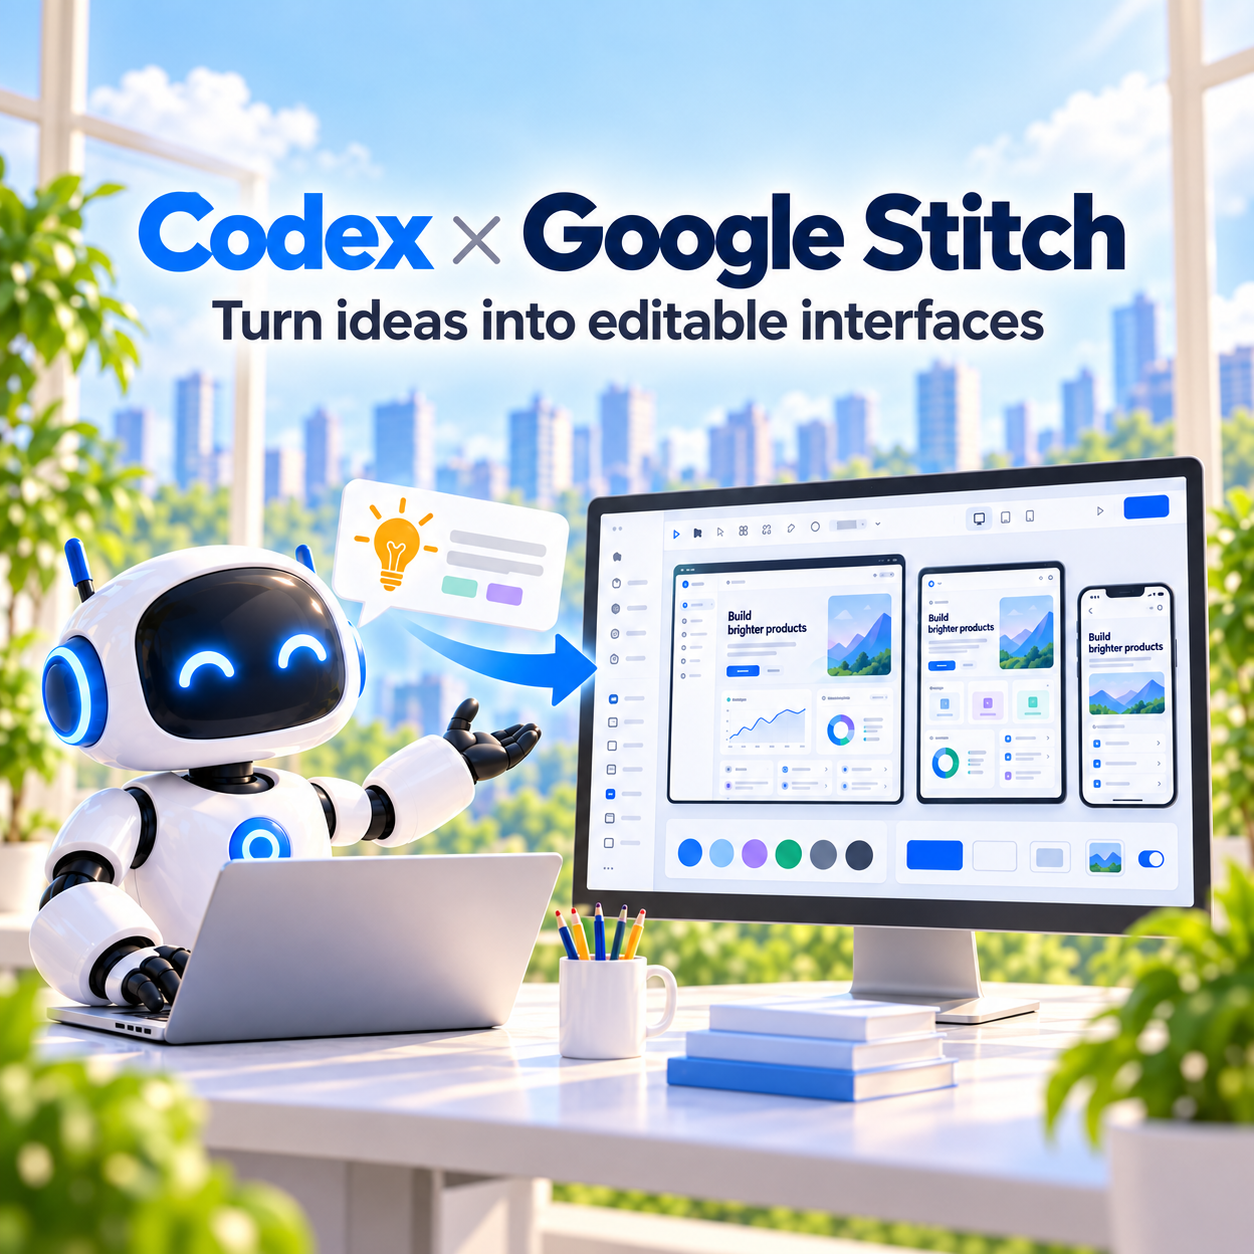
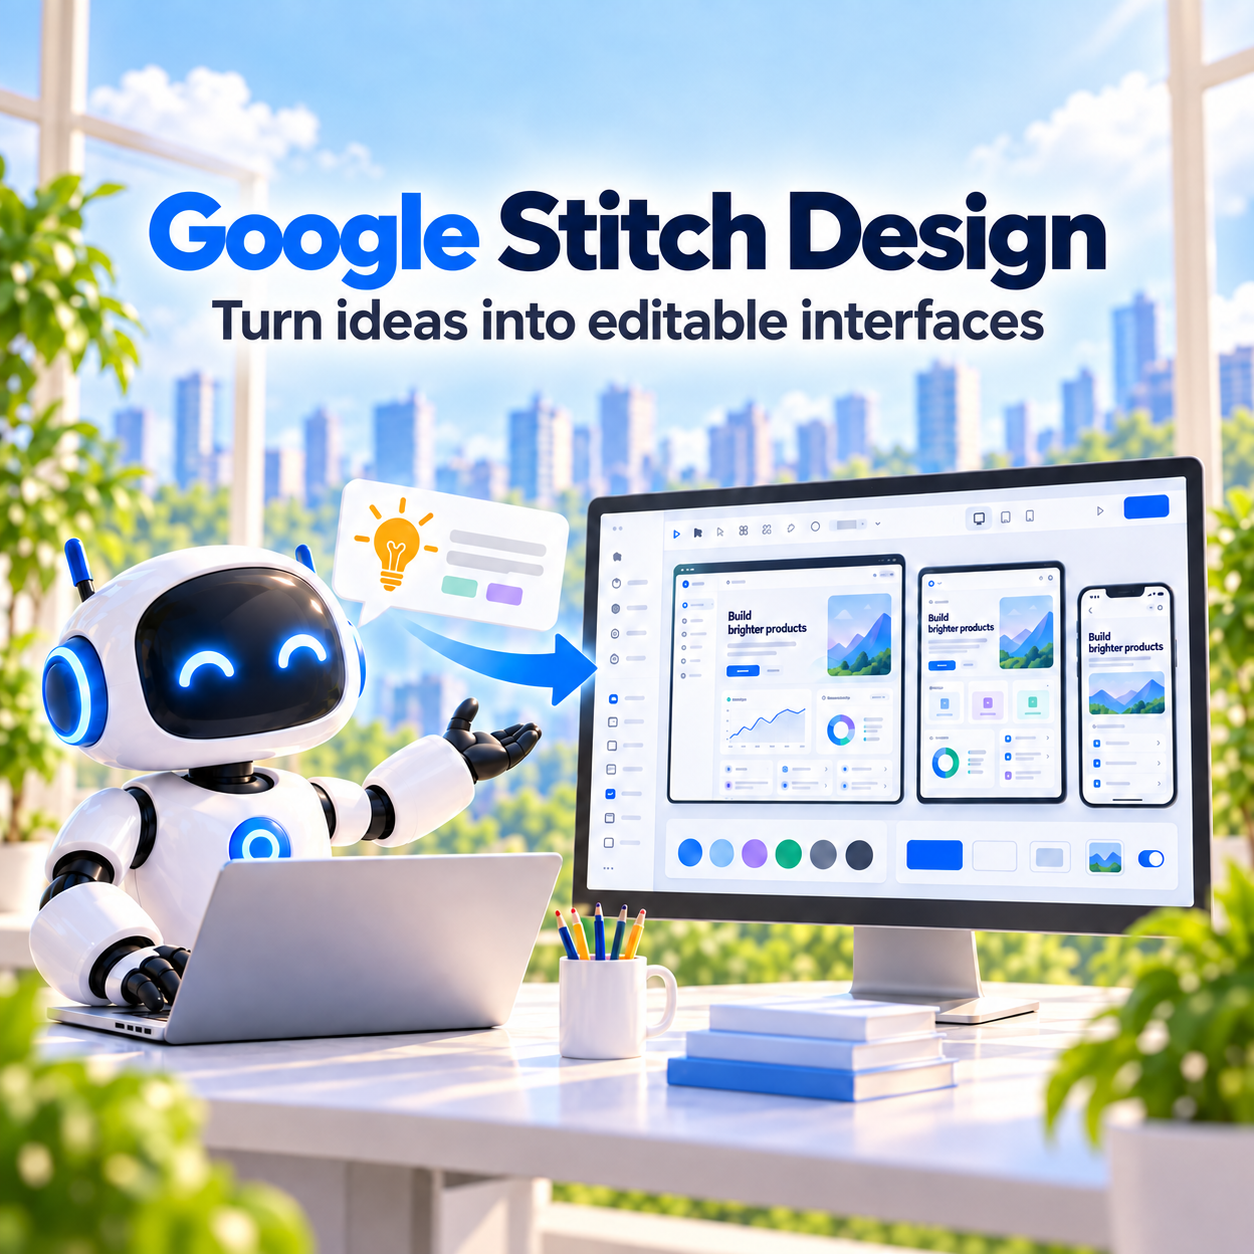
fix: 统一跨宿主公开品牌

Changed region(s): [[0.0933, 0.1244, 0.9019, 0.2488], [0.4354, 0.7153, 0.4976, 0.7775], [0.9952, 0.5287, 1.0, 0.5598]]

diff --git a/tests/test_cross_host_naming.py b/tests/test_cross_host_naming.py
@@ -5,16 +5,34 @@ import unittest
 
 
 ROOT = Path(__file__).resolve().parents[1]
-OBSOLETE = "codex" + "-stitch-design-plugin"
+BANNED_PUBLIC_NAMES = (
+    "codex" + "-stitch-design-plugin",
+    "Codex" + " × Google Stitch",
+    "Stitch Design" + " for Codex",
+)
+TEXT_SUFFIXES = {".md", ".json", ".py", ".mjs", ".js", ".toml", ".yaml", ".yml", ".svg"}
+EXCLUDED_PARTS = {
+    ".git", ".mimosa", ".worktrees", "artifacts", "openspec", "superpowers",
+    "verification", "__pycache__",
+}
 
 
 class CrossHostNamingTest(unittest.TestCase):
-    def test_current_design_uses_cross_host_plugin_name(self) -> None:
+    def test_public_files_and_content_use_host_neutral_names(self) -> None:
         violations: list[str] = []
-        for directory in (ROOT / "docs/superpowers/specs", ROOT / "docs/superpowers/plans"):
-            for path in directory.glob("*.md"):
-                if OBSOLETE in path.read_text(encoding="utf-8"):
-                    violations.append(path.relative_to(ROOT).as_posix())
+        for path in ROOT.rglob("*"):
+            if path == Path(__file__) or any(part in EXCLUDED_PARTS for part in path.parts):
+                continue
+            relative = path.relative_to(ROOT).as_posix()
+            for obsolete in BANNED_PUBLIC_NAMES:
+                if obsolete.lower() in relative.lower():
+                    violations.append(f"path:{relative}:{obsolete}")
+            if not path.is_file() or path.suffix.lower() not in TEXT_SUFFIXES:
+                continue
+            content = path.read_text(encoding="utf-8", errors="ignore")
+            for obsolete in BANNED_PUBLIC_NAMES:
+                if obsolete in content:
+                    violations.append(f"content:{relative}:{obsolete}")
         self.assertEqual([], violations)
 
 

diff --git a/tests/test_distribution.py b/tests/test_distribution.py
@@ -206,7 +206,7 @@ class DistributionContractTests(unittest.TestCase):
             entry["source"]["url"],
             "https://github.com/full-stack-plugins/stitch-design-plugin.git",
         )
-        self.assertEqual(entry["source"]["ref"], "v0.7.11")
+        self.assertEqual(entry["source"]["ref"], "v0.7.12")
         self.assertEqual(entry["policy"]["installation"], "AVAILABLE")
         self.assertEqual(entry["policy"]["authentication"], "ON_USE")
 
@@ -310,8 +310,8 @@ class DistributionContractTests(unittest.TestCase):
             (ROOT / "README.zh-CN.md").read_text(encoding="utf-8"),
         )
         required = (
-            "codex plugin marketplace add full-stack-plugins/stitch-design-plugin --ref v0.7.11",
-            "codex plugin marketplace add https://github.com/full-stack-plugins/stitch-design-plugin.git --ref v0.7.11",
+            "codex plugin marketplace add full-stack-plugins/stitch-design-plugin --ref v0.7.12",
+            "codex plugin marketplace add https://github.com/full-stack-plugins/stitch-design-plugin.git --ref v0.7.12",
             "--sparse .agents/plugins",
             "codex plugin marketplace add ./partme-stitch-plugin",
             "codex plugin add stitch-design@partme-ai-stitch",

diff --git a/stitch_harness/preflight.py b/stitch_harness/preflight.py
@@ -164,7 +164,7 @@ def stitch_read_probe(session: McpHttpSession) -> tuple[str, ...]:
                 "params": {
                     "protocolVersion": PROTOCOL_VERSION,
                     "capabilities": {},
-                    "clientInfo": {"name": "stitch-delivery-harness", "version": "0.7.11"},
+                    "clientInfo": {"name": "stitch-delivery-harness", "version": "0.7.12"},
                 },
             }
         )

diff --git a/scripts/live_canary.py b/scripts/live_canary.py
@@ -21,7 +21,7 @@ PLUGIN_ROOT = Path(__file__).resolve().parents[1]
 if str(PLUGIN_ROOT) not in sys.path:
     sys.path.insert(0, str(PLUGIN_ROOT))
 
-RELEASE_CANDIDATE = "0.7.11"
+RELEASE_CANDIDATE = "0.7.12"
 
 from stitch_harness.assets import local_tool_definitions  # noqa: E402
 from stitch_harness.mcp_proxy import McpHttpSession, PROTOCOL_VERSION, ProxyError, UnknownWriteResult  # noqa: E402

diff --git a/README.md b/README.md
@@ -1,21 +1,21 @@
-# Stitch Design for Codex
+# Stitch Design
 
-![Codex × Google Stitch — Turn ideas into editable interfaces](assets/stitch-hero.png)
+![Google Stitch Design — Turn ideas into editable interfaces](assets/stitch-hero.png)
 
-> Design, verify, art-direct, and deliver editable Google Stitch projects from Codex through 43 workflow-oriented Agent Skills and an evidence-driven Harness.
+> Design, verify, art-direct, and deliver editable Google Stitch projects from your supported coding agent through 43 workflow-oriented Agent Skills and an evidence-driven Harness.
 
-[![Version](https://img.shields.io/badge/release-0.7.11-1A73E8)](https://github.com/full-stack-plugins/stitch-design-plugin/releases/tag/v0.7.11)
+[![Version](https://img.shields.io/badge/release-0.7.12-1A73E8)](https://github.com/full-stack-plugins/stitch-design-plugin/releases/tag/v0.7.12)
 [![Tests](https://img.shields.io/badge/tests-222%20passing-18a957)](#development-and-verification)
 [![MCP tools](https://img.shields.io/badge/MCP%20tools-17-00A67E)](#what-you-can-build)
 [![License](https://img.shields.io/badge/license-Apache--2.0-green)](LICENSE)
 
 [English](README.md) | [简体中文](README.zh-CN.md) · [Install](#installation) · [Quick start](#quick-start) · [Examples](#example-requests) · [Architecture](docs/Stitch-Design-Architecture.md) · [Troubleshooting](#troubleshooting)
 
-## Stitch Design in Codex
+## Codex host example
 
 ![Stitch Design plugin details in Codex, including starter prompts, MCP server, and 43 Skills](assets/readme/stitch-design-plugin-overview.png)
 
-The installed plugin exposes three ready-to-run prompts, one bundled Stitch MCP server, 43 workflow Skills, and a secure local Token setup directly in Codex.
+In Codex, the installed plugin exposes three ready-to-run prompts, one bundled Stitch MCP server, 43 workflow Skills, and a secure local Token setup. ZCode and Kimi load the same public plugin identity through their host manifests.
 
 ## Positioning
 
@@ -38,7 +38,7 @@ The installed plugin exposes three ready-to-run prompts, one bundled Stitch MCP 
 Recommended: track the repository's `main` branch explicitly.
 
 ```bash
-codex plugin marketplace add full-stack-plugins/stitch-design-plugin --ref v0.7.11
+codex plugin marketplace add full-stack-plugins/stitch-design-plugin --ref v0.7.12
 codex plugin add stitch-design@partme-ai-stitch
 ```
 
@@ -46,17 +46,17 @@ Restart Codex or the ChatGPT desktop app, open a new task, and ask Stitch Design
 
 ### Other supported Marketplace sources
 
-GitHub shorthand pinned by the repository-local marketplace to `v0.7.11`:
+GitHub shorthand pinned by the repository-local marketplace to `v0.7.12`:
 
 ```bash
 codex plugin marketplace add full-stack-plugins/stitch-design-plugin
 codex plugin add stitch-design@partme-ai-stitch
 ```
 
-Full Git URL pinned to immutable `v0.7.11`:
+Full Git URL pinned to immutable `v0.7.12`:
 
 ```bash
-codex plugin marketplace add https://github.com/full-stack-plugins/stitch-design-plugin.git --ref v0.7.11
+codex plugin marketplace add https://github.com/full-stack-plugins/stitch-design-plugin.git --ref v0.7.12
 codex plugin add stitch-design@partme-ai-stitch
 ```
 
@@ -64,7 +64,7 @@ Sparse Git checkout when only Marketplace metadata is needed:
 
 ```bash
 codex plugin marketplace add https://github.com/full-stack-plugins/stitch-design-plugin.git \
-  --ref v0.7.11 \
+  --ref v0.7.12 \
   --sparse .agents/plugins
 codex plugin add stitch-design@partme-ai-stitch
 ```
@@ -182,8 +182,8 @@ This repository intentionally remains a Codex compatibility package while the po
 | Property | Value |
 |:---|:---|
 | Plugin ID | `stitch-design` |
-| Current candidate | `0.7.11` |
-| Current release | [v0.7.11](https://github.com/full-stack-plugins/stitch-design-plugin/releases/tag/v0.7.11) |
+| Current candidate | `0.7.12` |
+| Current release | [v0.7.12](https://github.com/full-stack-plugins/stitch-design-plugin/releases/tag/v0.7.12) |
 | Previous release | [v0.7.8](https://github.com/full-stack-plugins/stitch-design-plugin/releases/tag/v0.7.8) |
 | Marketplace | `partme-ai-stitch` |
 | Authentication | User-owned `STITCH_API_KEY`, requested on first use |

diff --git a/README.zh-CN.md b/README.zh-CN.md
@@ -1,21 +1,21 @@
-# Stitch Design for Codex
+# Stitch Design
 
-![Codex × Google Stitch — 把想法转化为可编辑界面](assets/stitch-hero.png)
+![Google Stitch Design——把想法转化为可编辑界面](assets/stitch-hero.png)
 
-> 通过 43 个面向工作流的 Agent Skills 和证据驱动 Harness，在 Codex 中设计、验证、美术增强并交付可编辑的 Google Stitch 项目。
+> 通过 43 个面向工作流的 Agent Skills 和证据驱动 Harness，在受支持的编码智能体中设计、验证、美术增强并交付可编辑的 Google Stitch 项目。
 
-[![版本](https://img.shields.io/badge/release-0.7.11-1A73E8)](https://github.com/full-stack-plugins/stitch-design-plugin/releases/tag/v0.7.11)
+[![版本](https://img.shields.io/badge/release-0.7.12-1A73E8)](https://github.com/full-stack-plugins/stitch-design-plugin/releases/tag/v0.7.12)
 [![测试](https://img.shields.io/badge/tests-222%20passing-18a957)](#开发与验证)
 [![MCP 工具](https://img.shields.io/badge/MCP%20tools-17-00A67E)](#可完成的工作)
 [![许可证](https://img.shields.io/badge/license-Apache--2.0-green)](LICENSE)
 
 [English](README.md) | [简体中文](README.zh-CN.md) · [安装](#安装) · [快速开始](#快速开始) · [使用示例](#使用示例) · [架构文档](docs/Stitch-Design-Architecture.zh_CN.md) · [故障排查](#故障排查)
 
-## Codex 中的 Stitch Design
+## Codex 宿主示例
 
 ![Codex 中的 Stitch Design 插件详情，包含快捷提示、MCP 服务器和 43 个 Skills](assets/readme/stitch-design-plugin-overview.png)
 
-安装后，Codex 会直接展示三个可运行提示、一个内置 Stitch MCP 服务器、43 个工作流 Skills 和安全的本地 Token 设置。
+在 Codex 中，安装后的插件会展示三个可运行提示、一个内置 Stitch MCP 服务器、43 个工作流 Skills 和安全的本地 Token 设置。ZCode 与 Kimi 通过各自宿主清单加载同一公开插件身份。
 
 ## 项目定位
 
@@ -38,7 +38,7 @@
 推荐显式跟踪本仓库 `main` 分支：
 
 ```bash
-codex plugin marketplace add full-stack-plugins/stitch-design-plugin --ref v0.7.11
+codex plugin marketplace add full-stack-plugins/stitch-design-plugin --ref v0.7.12
 codex plugin add stitch-design@partme-ai-stitch
 ```
 
@@ -56,7 +56,7 @@ codex plugin add stitch-design@partme-ai-stitch
 使用完整 Git URL 并固定 `main`：
 
 ```bash
-codex plugin marketplace add https://github.com/full-stack-plugins/stitch-design-plugin.git --ref v0.7.11
+codex plugin marketplace add https://github.com/full-stack-plugins/stitch-design-plugin.git --ref v0.7.12
 codex plugin add stitch-design@partme-ai-stitch
 ```
 
@@ -64,7 +64,7 @@ codex plugin add stitch-design@partme-ai-stitch
 
 ```bash
 codex plugin marketplace add https://github.com/full-stack-plugins/stitch-design-plugin.git \
-  --ref v0.7.11 \
+  --ref v0.7.12 \
   --sparse .agents/plugins
 codex plugin add stitch-design@partme-ai-stitch
 ```
@@ -177,8 +177,8 @@ python C:\已安装插件路径\scripts\stitch_setup.py ui
 | 属性 | 值 |
 |:---|:---|
 | 插件 ID | `stitch-design` |
-| 当前候选版本 | `0.7.11` |
-| 当前版本 | [v0.7.11](https://github.com/full-stack-plugins/stitch-design-plugin/releases/tag/v0.7.11) |
+| 当前候选版本 | `0.7.12` |
+| 当前版本 | [v0.7.12](https://github.com/full-stack-plugins/stitch-design-plugin/releases/tag/v0.7.12) |
 | 上一版本 | [v0.7.8](https://github.com/full-stack-plugins/stitch-design-plugin/releases/tag/v0.7.8) |
 | Marketplace | `partme-ai-stitch` |
 | 认证 | 用户自有 `STITCH_API_KEY`，首次使用时配置 |

diff --git a/docs/Stitch-Design-Architecture.md b/docs/Stitch-Design-Architecture.md
@@ -2,7 +2,7 @@
 
 > **Purpose:** Define the verified architecture, trust boundaries, lifecycle, failure semantics, and evolution constraints of Stitch Design.
 >
-> **Version:** 0.7.11 · **Status:** Release candidate · **Evidence date:** 2026-09-20
+> **Version:** 0.7.12 · **Status:** Release candidate · **Evidence date:** 2026-09-20
 
 [简体中文](Stitch-Design-Architecture.zh_CN.md) | [Technical solution](Stitch-Design-Technical-Solution.md) | [README](../README.md)
 
@@ -179,8 +179,8 @@ sequenceDiagram
     participant M as Marketplace / source
     participant P as Plugin
     U->>C: add marketplace and plugin
-    C->>M: resolve v0.7.11 for the release candidate
-    M-->>C: stitch-design 0.7.11 candidate
+    C->>M: resolve v0.7.12 for the release candidate
+    M-->>C: stitch-design 0.7.12 candidate
     C->>P: load manifest, Skills, MCP config
     P-->>C: capabilities registered
 ```
@@ -342,4 +342,4 @@ The manual live-canary workflow validates MCP lifecycle/catalog behavior plus pr
 
 ---
 
-**Document version:** 2.7.10 · **Status:** Aligned with the 0.7.11 release candidate · **Updated:** 2026-09-20
+**Document version:** 2.7.10 · **Status:** Aligned with the 0.7.12 release candidate · **Updated:** 2026-09-20

diff --git a/docs/Stitch-Design-Architecture.zh_CN.md b/docs/Stitch-Design-Architecture.zh_CN.md
@@ -2,7 +2,7 @@
 
 > **文档目的**：定义 Stitch Design 已验证的架构、信任边界、生命周期、失败语义与演进约束。
 >
-> **适用版本**：0.7.11 · **状态**：发布候选 · **事实核验日期**：2026-09-20
+> **适用版本**：0.7.12 · **状态**：发布候选 · **事实核验日期**：2026-09-20
 
 [English](Stitch-Design-Architecture.md) | [技术方案](Stitch-Design-Technical-Solution.zh_CN.md) | [README 中文](../README.zh-CN.md)
 
@@ -177,8 +177,8 @@ sequenceDiagram
     participant M as Marketplace / 源码
     participant P as 插件
     U->>C: 添加市场并安装插件
-    C->>M: 为发布候选解析 v0.7.11
-    M-->>C: stitch-design 0.7.11 候选
+    C->>M: 为发布候选解析 v0.7.12
+    M-->>C: stitch-design 0.7.12 候选
     C->>P: 加载 manifest、Skills、MCP
     P-->>C: 注册能力
 ```
@@ -335,4 +335,4 @@ flowchart LR
 
 ---
 
-**文档版本**：2.7.10 · **状态**：已对齐 0.7.11 发布候选 · **最后更新**：2026-09-20
+**文档版本**：2.7.10 · **状态**：已对齐 0.7.12 发布候选 · **最后更新**：2026-09-20

diff --git a/PRIVACY.md b/PRIVACY.md
@@ -1,6 +1,6 @@
 # Privacy
 
-Stitch Design for Codex does not collect, store, sell, or independently transmit user data. It packages local Agent Skills and configures a connection from the user's Codex client to Google Stitch.
+Stitch Design does not collect, store, sell, or independently transmit user data. It packages local Agent Skills and configures a connection from the user's supported coding-agent host to Google Stitch.
 
 When a user invokes Stitch MCP tools, prompts, project identifiers, uploaded assets, and generated design data may be sent directly to Google Stitch under the user's account and Google's applicable terms and privacy policy. The plugin authors do not receive that traffic.
 

diff --git a/docs/Stitch-Design-Technical-Solution.md b/docs/Stitch-Design-Technical-Solution.md
@@ -1,6 +1,6 @@
 # Stitch Design Technical Solution
 
-> **Scope:** Implementation decisions, interfaces, security controls, tests, release, and migration for Stitch Design 0.7.11.
+> **Scope:** Implementation decisions, interfaces, security controls, tests, release, and migration for Stitch Design 0.7.12.
 >
 > **Updated:** 2026-09-14
 
@@ -223,7 +223,7 @@ Release proof for 0.4.0:
 
 ---
 
-**Document version:** 2.7.10 · **Status:** Aligned with the 0.7.11 release candidate
+**Document version:** 2.7.10 · **Status:** Aligned with the 0.7.12 release candidate
 
 ## 10. Evidence map
 

diff --git a/TERMS.md b/TERMS.md
@@ -1,6 +1,6 @@
 # Terms of Use
 
-Stitch Design for Codex is provided under the Apache License 2.0 in [LICENSE](LICENSE), with additional third-party notices in [THIRD_PARTY_NOTICES.md](THIRD_PARTY_NOTICES.md).
+Stitch Design is provided under the Apache License 2.0 in [LICENSE](LICENSE), with additional third-party notices in [THIRD_PARTY_NOTICES.md](THIRD_PARTY_NOTICES.md).
 
 The plugin is an independent community integration maintained by Full Stack Skills / PartMe.AI. It is not an official Google or OpenAI plugin and does not grant access to either service.
 

diff --git a/docs/Stitch-Design-Technical-Solution.zh_CN.md b/docs/Stitch-Design-Technical-Solution.zh_CN.md
@@ -1,6 +1,6 @@
 # Stitch Design 技术方案
 
-> **范围**：说明 Stitch Design 0.7.11 的实现决策、接口、安全、测试、发布和迁移方案。
+> **范围**：说明 Stitch Design 0.7.12 的实现决策、接口、安全、测试、发布和迁移方案。
 >
 > **最后更新**：2026-09-14
 
@@ -212,7 +212,7 @@ git diff --check
 
 ---
 
-**文档版本**：2.7.10 · **状态**：与 0.7.11 发布候选对齐
+**文档版本**：2.7.10 · **状态**：与 0.7.12 发布候选对齐
 
 ## 10. 证据映射
 
